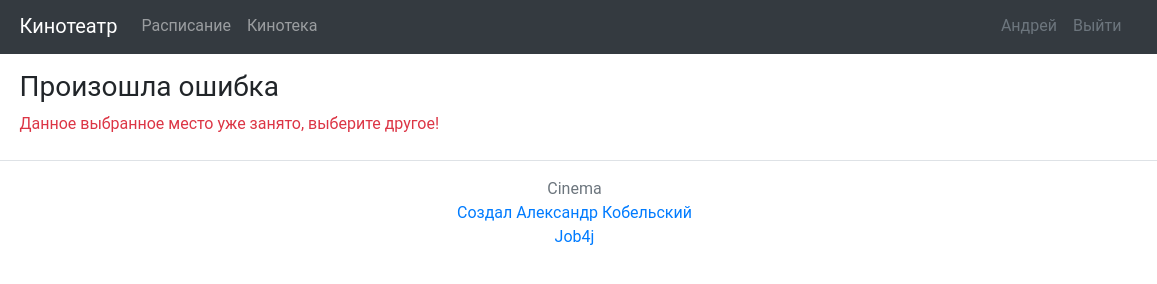
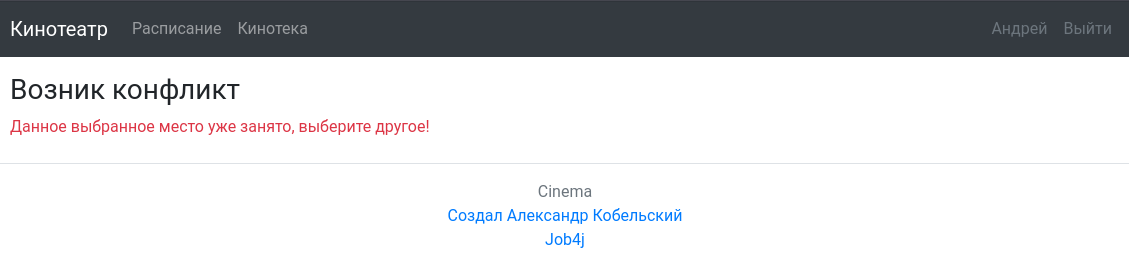
Указал версии для технологий. Добавил требования к окружению. Добавил покрытие тестов. Исправил ошибки указанные ментором.

diff --git a/src/main/resources/templates/errors/409.html b/src/main/resources/templates/errors/409.html
@@ -1,0 +1,24 @@
+<!DOCTYPE html>
+<html xmlns:th="http://www.thymeleaf.org" lang="RU">
+<head>
+
+    <!--  Зависимости Bootstrap-->
+    <meta charset="utf-8">
+    <meta name="viewport" content="width=device-width, initial-scale=1">
+    <link th:href = "@{/css/bootstrap.min.css}" rel="stylesheet">
+    <script th:src="@{/js/code.jquery.com_jquery-3.7.0.min.js}"></script>
+    <script th:src="@{/js/bootstrap.min.js}"></script>
+
+    <title>Возник конфликт</title>
+</head>
+<body>
+<div class="container-fluid p-0">
+    <header th:insert="blocks/header :: header"></header>
+    <div class="container">
+        <h3 class="mt-3">Возник конфликт</h3>
+        <p class="text-danger" th:text="${message}"></p>
+    </div>
+    <footer th:insert="blocks/footer :: footer"></footer>
+</div>
+</body>
+</html>

diff --git a/src/main/resources/templates/users/register.html b/src/main/resources/templates/users/register.html
@@ -28,6 +28,10 @@
                 <label for="password" class="form-label"><b>Пароль</b></label>
                 <input type="password" class="form-control" id="password" name="password" required>
             </div>
+            <div class="container">
+<!--                <h3 class="mt-3">Произошла ошибка</h3>-->
+                <p class="text-danger" th:text="${message}"></p>
+            </div>
             <div class="mb-3 row">
                 <div class="col-6"></div>
                 <div class="col-6">

diff --git a/src/test/java/ru/job4j/cinema/controller/UserControllerTest.java b/src/test/java/ru/job4j/cinema/controller/UserControllerTest.java
@@ -6,6 +6,7 @@ import org.mockito.InjectMocks;
 import org.mockito.Mock;
 import org.mockito.junit.jupiter.MockitoExtension;
 import org.springframework.ui.Model;
+import org.springframework.web.servlet.mvc.support.RedirectAttributes;
 import ru.job4j.cinema.model.User;
 import ru.job4j.cinema.service.user.UserService;
 
@@ -22,6 +23,9 @@ class UserControllerTest {
 
     @Mock
     private UserService userService;
+
+    @Mock
+    private RedirectAttributes redirectAttributes;
 
     @Mock
     private Model model;
@@ -44,28 +48,36 @@ class UserControllerTest {
     }
 
     @Test
-    void whenRegisterSuccessfullyThenRedirectToFilms() {
+    void whenRegisterSuccessfullyThenRedirectToLoginPage() {
 
-        User user = new User(1, "John Doe", "john@example.com", "password");
-        when(userService.save(user)).thenReturn(Optional.of(user));
+        User user = new User(1, "Test User", "test@example.com", "password123");
+        Optional<User> savedUser = Optional.of(user);
 
-        String viewName = userController.register(model, user);
+        when(userService.save(any(User.class))).thenReturn(savedUser);
 
-        assertEquals("redirect:/films", viewName);
+        String view = userController.register(redirectAttributes, user);
+
+        assertEquals("redirect:/users/login", view);
         verify(userService, times(1)).save(user);
+        verifyNoInteractions(redirectAttributes);
     }
 
     @Test
-    void whenRegisterFailsThenReturnError404() {
+    void whenRegisterFailsThenRedirectToRegisterPageWithMessage() {
 
-        User user = new User(1, "John Doe", "john@example.com", "password");
-        when(userService.save(user)).thenReturn(Optional.empty());
+        User user = new User(1, "Test User", "test@example.com", "password123");
+        Optional<User> emptyUser = Optional.empty();
 
-        String viewName = userController.register(model, user);
+        when(userService.save(any(User.class))).thenReturn(emptyUser);
 
-        assertEquals("errors/404", viewName);
-        verify(model, times(1)).addAttribute("message",
-                "Пользователь с такой почтой уже существует");
+        String view = userController.register(redirectAttributes, user);
+
+        assertEquals("redirect:/users/register", view);
+
+        verify(redirectAttributes, times(1))
+                .addFlashAttribute("message", "Пользователь с такой почтой уже существует");
+
+        verify(userService, times(1)).save(user);
     }
 
     @Test

diff --git a/src/test/java/ru/job4j/cinema/service/ticket/SimpleTicketServiceTest.java b/src/test/java/ru/job4j/cinema/service/ticket/SimpleTicketServiceTest.java
@@ -32,30 +32,6 @@ class SimpleTicketServiceTest {
     }
 
     @Test
-    void whenSaveSuccessfulThenReturnTicket() {
-
-        when(ticketRepository.isSeatAvailable(1, 5, 10, 1001)).thenReturn(false);
-        when(ticketRepository.save(1, 5, 10, 1001)).thenReturn(Optional.of(testTicket));
-
-        Optional<Ticket> result = simpleTicketService.save(1, 5, 10, 1001);
-
-        assertTrue(result.isPresent());
-        assertEquals(testTicket, result.get());
-        verify(ticketRepository).save(1, 5, 10, 1001);
-    }
-
-    @Test
-    void whenSeatNotAvailableThenReturnEmpty() {
-
-        when(ticketRepository.isSeatAvailable(1, 5, 10, 1001)).thenReturn(true);
-
-        Optional<Ticket> result = simpleTicketService.save(1, 5, 10, 1001);
-
-        assertTrue(result.isEmpty());
-        verify(ticketRepository, never()).save(anyInt(), anyInt(), anyInt(), anyInt());
-    }
-
-    @Test
     void whenGetByIdThenReturnTicketDto() {
 
         when(ticketRepository.getById(1)).thenReturn(Optional.of(testTicket));
@@ -78,25 +54,5 @@ class SimpleTicketServiceTest {
         Optional<TicketDto> result = simpleTicketService.getById(99);
 
         assertTrue(result.isEmpty());
-    }
-
-    @Test
-    void whenSeatAvailableThenReturnTrue() {
-
-        when(ticketRepository.isSeatAvailable(1, 5, 10, 1001)).thenReturn(true);
-
-        boolean result = simpleTicketService.isSeatAvailable(1, 5, 10, 1001);
-
-        assertTrue(result);
-    }
-
-    @Test
-    void whenSeatNotAvailableThenReturnFalse() {
-
-        when(ticketRepository.isSeatAvailable(1, 5, 10, 1001)).thenReturn(false);
-
-        boolean result = simpleTicketService.isSeatAvailable(1, 5, 10, 1001);
-
-        assertFalse(result);
     }
 }

diff --git a/src/main/java/ru/job4j/cinema/controller/UserController.java b/src/main/java/ru/job4j/cinema/controller/UserController.java
@@ -6,6 +6,7 @@ import org.springframework.web.bind.annotation.GetMapping;
 import org.springframework.web.bind.annotation.ModelAttribute;
 import org.springframework.web.bind.annotation.PostMapping;
 import org.springframework.web.bind.annotation.RequestMapping;
+import org.springframework.web.servlet.mvc.support.RedirectAttributes;
 import ru.job4j.cinema.model.User;
 import ru.job4j.cinema.service.user.UserService;
 
@@ -29,13 +30,14 @@ public class UserController {
     }
 
     @PostMapping("/register")
-    public String register(Model model, @ModelAttribute User user) {
+    public String register(RedirectAttributes redirectAttributes, @ModelAttribute User user) {
         Optional<User> savedUser = userService.save(user);
         if (savedUser.isEmpty()) {
-            model.addAttribute("message", "Пользователь с такой почтой уже существует");
-            return "errors/404";
+            redirectAttributes.addFlashAttribute("message",
+                                                "Пользователь с такой почтой уже существует");
+            return "redirect:/users/register";
         }
-        return "redirect:/films";
+        return "redirect:/users/login";
     }
 
     @GetMapping("/login")

diff --git a/src/main/java/ru/job4j/cinema/repository/ticket/Sql2oTicketRepository.java b/src/main/java/ru/job4j/cinema/repository/ticket/Sql2oTicketRepository.java
@@ -56,21 +56,4 @@ public class Sql2oTicketRepository implements TicketRepository {
             return Optional.ofNullable(ticket);
         }
     }
-
-    @Override
-    public boolean isSeatAvailable(int sessionId, int row, int place, int userId) {
-        try (Connection connection = sql2o.open()) {
-            String sql = """
-                      SELECT COUNT(*) > 0
-                      FROM tickets
-                      WHERE session_id = :sessionId AND row_number = :rowNumber AND place_number = :placeNumber AND user_id = :userId
-                      """;
-            Query query = connection.createQuery(sql)
-                    .addParameter("sessionId", sessionId)
-                    .addParameter("rowNumber", row)
-                    .addParameter("placeNumber", place)
-                    .addParameter("userId", userId);
-            return query.executeScalar(Boolean.class);
-        }
-    }
 }

diff --git a/src/test/java/ru/job4j/cinema/controller/TicketControllerTest.java b/src/test/java/ru/job4j/cinema/controller/TicketControllerTest.java
@@ -53,7 +53,7 @@ class TicketControllerTest {
     }
 
     @Test
-    void whenBuyTicketFailsBecausePlaceIsTakenThenReturnError404() {
+    void whenBuyTicketFailsBecausePlaceIsTakenThenReturnError409() {
 
         int sessionId = 1, row = 5, place = 8, userId = 123;
         FilmSession filmSession = new FilmSession(sessionId, 10, 2, null, null, 500);
@@ -63,7 +63,7 @@ class TicketControllerTest {
 
         String viewName = ticketController.buyTicket(sessionId, row, place, userId, model, redirectAttributes);
 
-        assertEquals("errors/404", viewName);
+        assertEquals("errors/409", viewName);
         verify(model, times(1)).addAttribute("message",
                 "Данное выбранное место уже занято, выберите другое!");
     }

diff --git a/src/main/java/ru/job4j/cinema/service/ticket/SimpleTicketService.java b/src/main/java/ru/job4j/cinema/service/ticket/SimpleTicketService.java
@@ -18,10 +18,6 @@ public class SimpleTicketService implements TicketService {
 
     @Override
     public Optional<Ticket> save(int sessionId, int rowNumber, int placeNumber, int userId) {
-        if (isSeatAvailable(sessionId, rowNumber, placeNumber, userId)) {
-            return Optional.empty();
-        }
-
         return ticketRepository.save(sessionId, rowNumber, placeNumber, userId);
     }
 
@@ -36,10 +32,5 @@ public class SimpleTicketService implements TicketService {
             ticketDto.setUserId(ticket.getUserId());
             return ticketDto;
         });
-    }
-
-    @Override
-    public boolean isSeatAvailable(int sessionId, int row, int place, int userId) {
-        return ticketRepository.isSeatAvailable(sessionId, row, place, userId);
     }
 }

diff --git a/src/main/java/ru/job4j/cinema/controller/TicketController.java b/src/main/java/ru/job4j/cinema/controller/TicketController.java
@@ -44,10 +44,10 @@ public class TicketController {
             redirectAttributes.addFlashAttribute("row", row);
             redirectAttributes.addFlashAttribute("place", place);
             return "redirect:/tickets/success";
-        } else {
-            model.addAttribute("message", "Данное выбранное место уже занято, выберите другое!");
-            return "errors/404";
         }
+
+        model.addAttribute("message", "Данное выбранное место уже занято, выберите другое!");
+        return "errors/409";
     }
 
     @GetMapping("/success")

diff --git a/src/test/java/ru/job4j/cinema/repository/ticket/Sql2oTicketRepositoryTest.java b/src/test/java/ru/job4j/cinema/repository/ticket/Sql2oTicketRepositoryTest.java
@@ -115,17 +115,4 @@ class Sql2oTicketRepositoryTest {
         Optional<Ticket> ticket = ticketRepository.getById(999);
         assertTrue(ticket.isEmpty());
     }
-
-    @Test
-    @Order(5)
-    void whenIsSeatAvailableAndSeatTakenThenReturnTrue() {
-        ticketRepository.save(1, 2, 3, 1);
-        assertTrue(ticketRepository.isSeatAvailable(1, 2, 3, 1));
-    }
-
-    @Test
-    @Order(6)
-    void whenIsSeatAvailableAndSeatFreeThenReturnFalse() {
-        assertFalse(ticketRepository.isSeatAvailable(1, 2, 4, 1));
-    }
 }

diff --git a/src/main/java/ru/job4j/cinema/service/ticket/TicketService.java b/src/main/java/ru/job4j/cinema/service/ticket/TicketService.java
@@ -10,6 +10,4 @@ public interface TicketService {
     Optional<Ticket> save(int sessionId, int rowNumber, int placeNumber, int userId);
 
     Optional<TicketDto> getById(int id);
-
-    boolean isSeatAvailable(int sessionId, int row, int place, int userId);
 }

diff --git a/src/main/java/ru/job4j/cinema/repository/ticket/TicketRepository.java b/src/main/java/ru/job4j/cinema/repository/ticket/TicketRepository.java
@@ -9,6 +9,4 @@ public interface TicketRepository {
     Optional<Ticket> save(int sessionId, int row, int place, int userId);
 
     Optional<Ticket> getById(int id);
-
-    boolean isSeatAvailable(int sessionId, int row, int place, int userId);
 }
